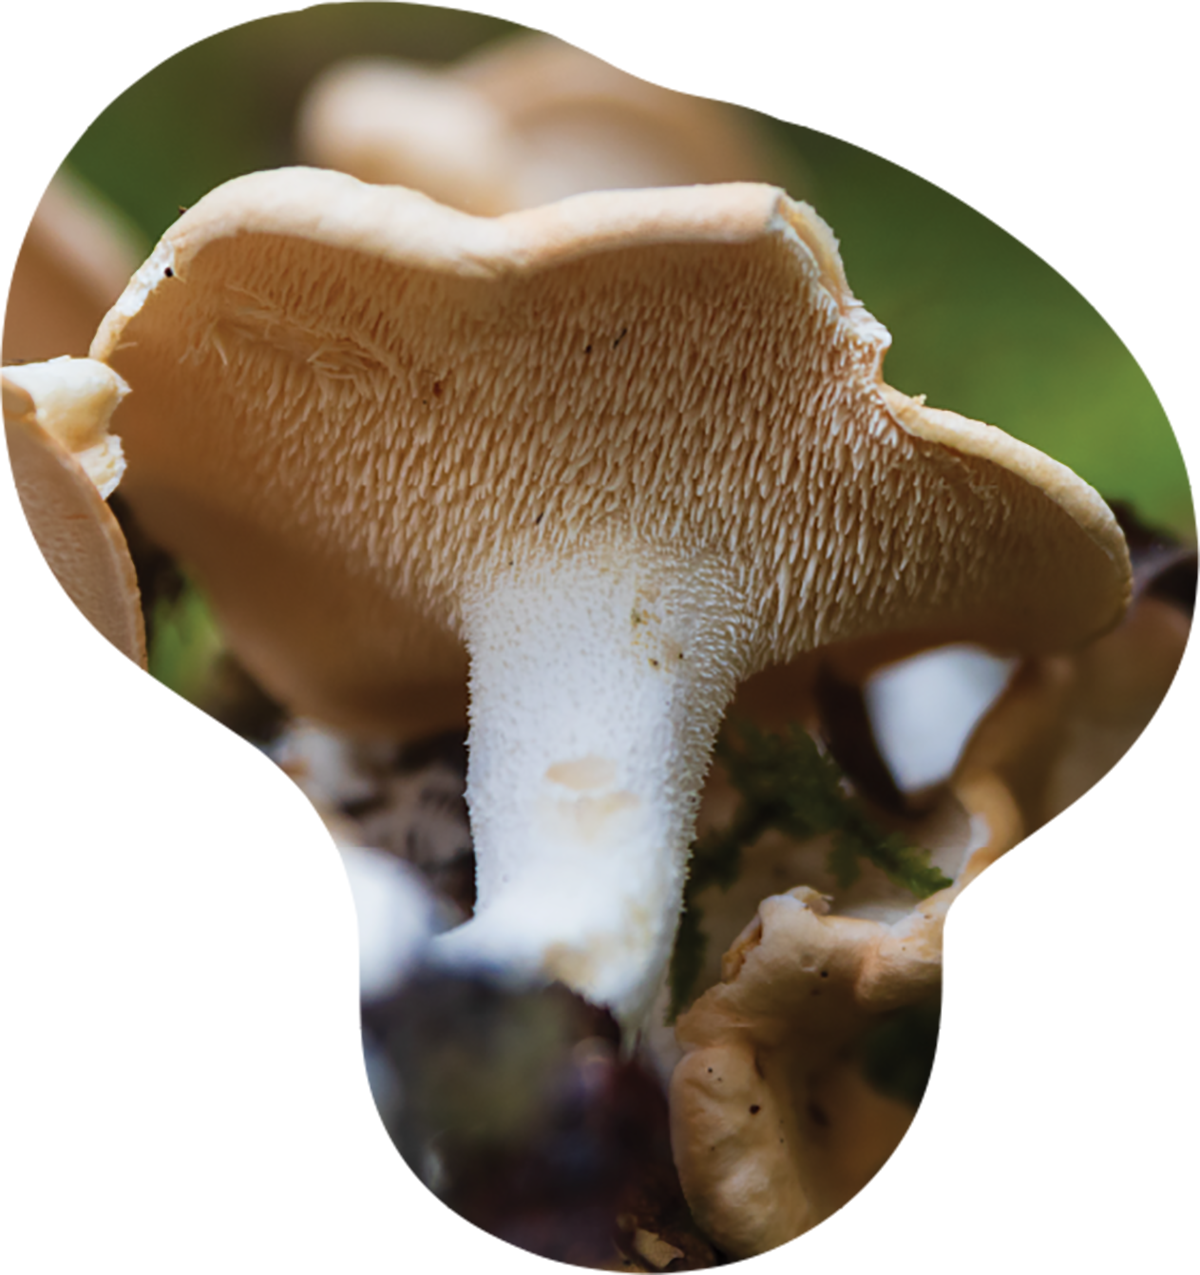
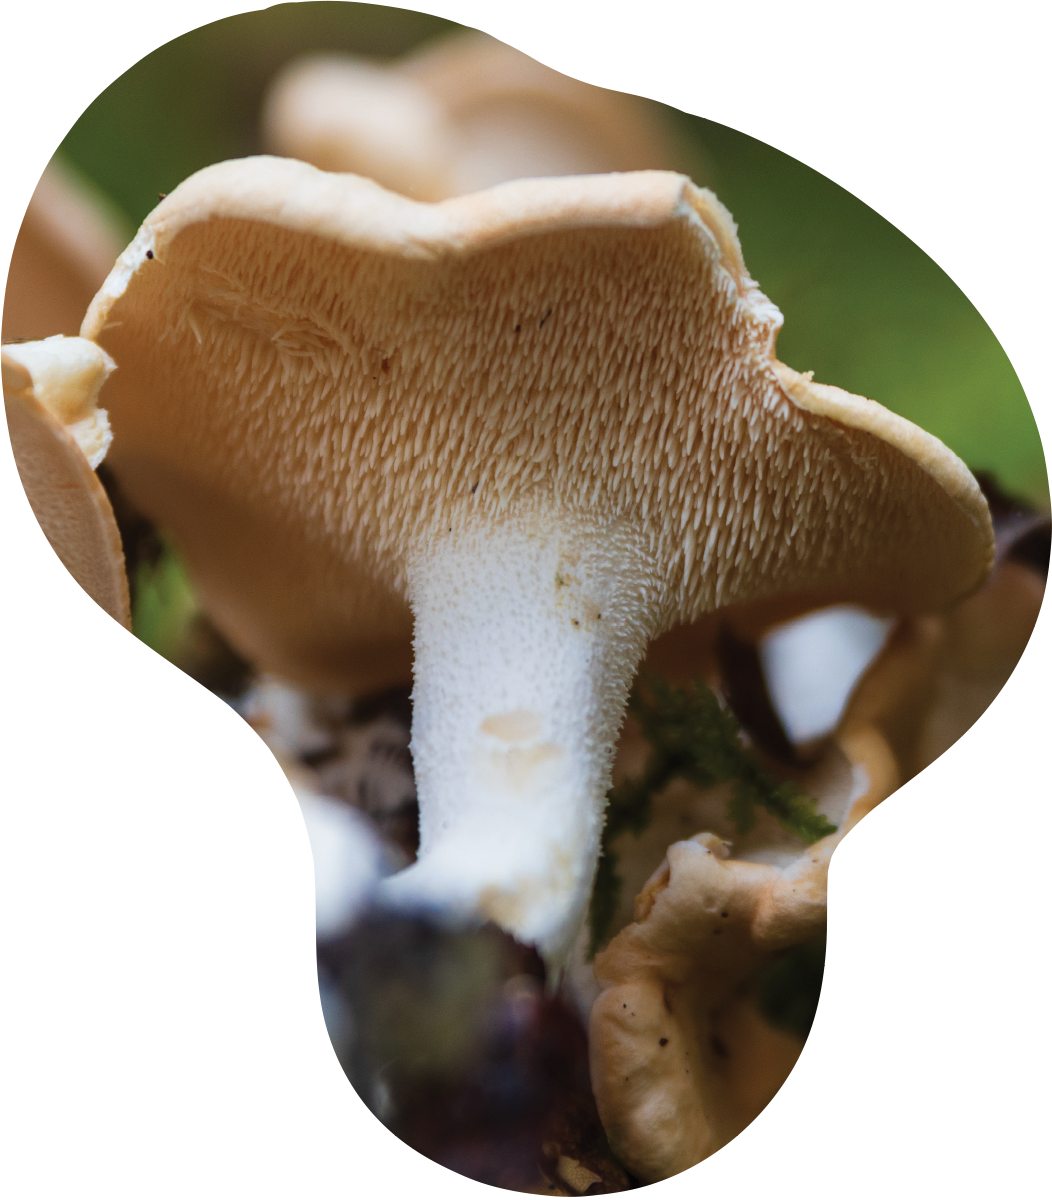
new

diff --git a/Project1/style.css b/Project1/style.css
@@ -43,12 +43,16 @@ body {
 }
 * {box-sizing: border-box;}
 
-.home {
+.home .hedgehogpage {
   background-color: #F1F2F2;
 }
 
-.chanterellepage {
+.chanterellepage, .boletepage {
   background-color: #EADBD2;
+}
+
+.morelpage {
+  background-color: #EDBE6F;
 }
 
 main {
@@ -82,12 +86,6 @@ a.nav li{
 
 .boletemain img { 
   margin-left: 150px;
-
-}
-
-.hedgehogmain img {
-  max-width: 100%; 
-  max-height: 412px;
 }
 
 ul {
@@ -101,19 +99,16 @@ nav ul{
 nav{ 
 	text-align: center;
 	width: 100%;
-	background-color: transparent;
 	}
 
 nav li{
 	display: inline-block;
 	margin-right: 15px;
 	margin-left: 15px;
-	margin-top: 60px;
+	margin-top: 40px;
 	padding: 10px;
   font-family: "sofiaProLight", proxima-nova;
   font-size: 17px;
-	font-style: normal;	
-	color: white;
 	box-sizing: border-box;
 }
 
@@ -128,7 +123,6 @@ nav li{
   padding: 20px 20px 10px 20px;
   }
 
-
 .home h2{
  font-family: "sofiaProUltraLight";
  font-size: 30px;
@@ -137,14 +131,13 @@ nav li{
  margin-top: 0px;
 }
 
-
 .homepage-layer { 
   width: 55%;
   margin: auto;
   position: relative;
   display: flex;
   justify-content: space-around;
-   }
+}
 
 .homepage-layer .one { /* shapes */
   width: 100%;
@@ -177,14 +170,14 @@ nav li{
 
 body {
     margin: 0;
-  }
+}
 
-  p {
-    font-family: "sofiaProLight";
-    padding: 1px 10px;
-    font-size: 16px;
-    text-align: justify;
-  }
+p {
+  font-family: "sofiaProLight";
+  padding: 1px 10px;
+  font-size: 16px;
+  text-align: justify;
+}
 
 .grid-1 {
   display: flex;
@@ -208,15 +201,15 @@ body {
 .bolete-layer .one {
   position: relative;
   width: 100%;
-  margin-left:80px;
-  margin-top: 0px;
+  margin-left: -135px;
+  margin-top: 230px;
 }
 
 .bolete-layer .two {
   position: absolute;
   width: 100%;
   top: 0;
-  margin-right: 200px;
+  margin-right: 30px;
   right:200px;
 }
 
@@ -224,28 +217,7 @@ body {
   width: 100%;
   position: absolute;
   top: 160px;
-  right: 190px; 
-}
-
-.boletes {
-  top: 170px;
-  left: 0;
-  right: 0;
-  margin: 0;
-  font-size: 45px;
-  font-family: 'windsor_BT';
-  padding: 12px 28px;
-  margin: 0;
-}
-
-.grid-2 {
-  display: flex;
-  width: 80%;
-  margin: auto;
-}
-
-.grid-2 div {
-  flex: 1;
+  right: 220px; 
 }
 
 .chanterelle-layer img  {
@@ -278,15 +250,15 @@ body {
 }
 
 .chanterelles  {
-    top: 170px;
-    left: 0;
-    right: 0;
-    margin: 0;
-    font-size: 55px;
-    color: #352F31;
-    font-family: 'windsor_BT';
-    padding: 0px 5px;
-    margin: 0;
+  top: 170px;
+  left: 0;
+  right: 0;
+  margin: 0;
+  font-size: 55px;
+  color: #352F31;
+  font-family: 'windsor_BT';
+  padding: 0px 5px;
+  margin: 0;
  }
 
 .chanterelle-content h2 {
@@ -297,71 +269,58 @@ body {
   font-family: 'WindsorOpti-LightCondensed' 
 }
 
- .grid-3 {
-  display: flex;
-  width: 80%;
-  margin: auto;
+.hedgehog-layer img{
+  width: 90%;
+  padding: 35px;
 }
 
-.grid-3 div {
-  flex: 1;
-}
 .hedgehog-layer{
   position: relative;
 }
 
+.hedgehog-layer .one {
+  width: 110%;
+  margin-right: 80px;
+}
+
 .hedgehog-layer .two {
   position: absolute;
-  top: 0;
-  left:200px;
+  width: 110%;
+  top: 290px;
+  left: 100px;
 }
 
 .hedgehog-layer .three {
   position: absolute;
-  top: 100px;
-  left:0;
+  width: 100%;
+  top: 150px;
+  left:90px;
 }
 
-.hedgehogs {
-  top: 170px;
-  left: 0;
-  right: 0;
-  margin: 0;
-  font-size: 45px;
-  font-family: 'windsor_BT';
-  padding: 12px 28px;
-  margin: 0;
+.morel-layer img{
+  width: 105%;
+  padding: 35px;
 }
-
-.hyndum {
-  font-size: 30px;
-  font-family: 'windsor_BT';
-}
-
-
-.grid-4 {
-  display: flex;
-  width: 80%;
-  margin: auto;
-}
-
-.grid-4 div {
-  flex: 1;
-}
-
-.morel-layer{
+ 
+.morel-layer {
   position: relative;
+}
+
+.morel-layer .one {
+  width: 100%;
 }
 
 .morel-layer .two {
   position: absolute;
-  top: 250px;
-  left:50px;
+  width: 100%;
+  top: 280px;
+  left:80px;
 }
 .morel-layer .three {
   position: absolute;
+  width: 100%;
   top: 120px;
-  left: 30px;
+  margin-left: 50px;
 }
 
 .morels {
@@ -369,11 +328,25 @@ body {
   left: 0;
   right: 0;
   margin: 0;
-  font-size: 45px;
-  font-family: 'windsor'
-  padding: 12px 28px;
+  font-size: 55px;
+  color: #352F31;
+  font-family: 'windsor_BT';
+  padding: 0px 5px;
   margin: 0;
 }
+
+.morel-content h2 {
+  margin-top: 0px;
+  padding: 5px 5px 20px 5px;
+  font-size: 34px;
+  color: #352F31;
+  font-family: 'WindsorOpti-LightCondensed'  
+}
+
+.morel-content {
+  padding: 150px 10px 10px 30px;
+}
+
 
 
 

diff --git a/Project1/hedgehogs.html b/Project1/hedgehogs.html
@@ -14,10 +14,10 @@
     </a>
   </div>
   <main class="hedgehogmain">
-    <section class="grid-3">
-      <div class="hedgehog-content">
-        <h1 class="hedgehogs">Hedgehogs</h1>
-        <h2 class="hydnum">(Hydnum Repandum)</h2>
+    <section class="grid-1">
+      <div class="morel-content">
+        <h1 class="morels">Hedgehogs</h1>
+        <h2 class="morchella">(Hydnum Repandum)</h2>
           <p>In the odd world of fungi, the hedgehog mushroom still manages to stand out as eccentric. Its the joker in
           the pack, and for anyone who is struggling to get to grips with identifying edible wild mushrooms, its refusal
           to conform to even the loosest of mycological norms make it a godsend. Better still, it is fairly common,
@@ -28,15 +28,15 @@
           the vast majority of inedible, poisonous and downright lethal ones too. Many of the latter do frustratingly
           good impressions of the former. </p>
       </div>
-      <div class="right hedgehog-layer">
+      <div class="hedgehog-layer">
         <div class="one">
-          <img class="photo" src="images/hedgehoglayer1.png" width="600" alt="hedgehoglayer1img">
+          <img class="photo" src="images/hedgehoglayer1.png" alt="hedgehoglayer1img">
         </div>
         <div class="two">
-          <img class="photo" src="images/hedgehoglayer2.png" width="600" alt="hedgehoglayer2img">
+          <img class="photo" src="images/hedgehoglayer2.png" alt="hedgehoglayer2img">
         </div>
         <div class="three">
-          <img class="photo" src="images/hedgehog.png" width="600" alt="hedgehogimg" />
+          <img class="photo" src="images/hedgehog.png" alt="hedgehogimg" />
         </div>
     </section>
   </main>

diff --git a/Project1/morels.html b/Project1/morels.html
@@ -13,7 +13,7 @@
       </a>
     </div>
     <main class="morelmain">
-      <section class="grid-4">
+      <section class="grid-1">
         <div class="morel-content">
           <h1 class="morels">Morels</h1>
          <h2 class="morchella">(Morchella)</h2>
@@ -22,13 +22,13 @@
         </div>
         <div class="right morel-layer">
           <div class="one">
-            <img class="photo" src="images/morellayer1.png" width="500" alt="morellayer2img">
+            <img class="photo" src="images/morellayer1.png" alt="morellayer2img">
           </div>
           <div class="two">
-            <img class="photo" src="images/morellayer2.png" width="570" alt="morellayer2img">
+            <img class="photo" src="images/morellayer2.png" alt="morellayer2img">
           </div>
           <div class="three">
-             <img class="photo" src="images/morel.png" width="550" alt="morelimg" />
+             <img class="photo" src="images/morel.png" alt="morelimg" />
           </div>
         </div>
       </section>

diff --git a/Project1/chanterelles.html b/Project1/chanterelles.html
@@ -13,7 +13,7 @@
       </a>
     </div>
     <main class="chanterellemain">
-      <section class="grid-2">
+      <section class="grid-1">
         <div class="left chanterelle-layer">
           <div class="one">
             <img class="photo" src="images/chanterellelayer1.png" alt="chanterellelayer1img">
